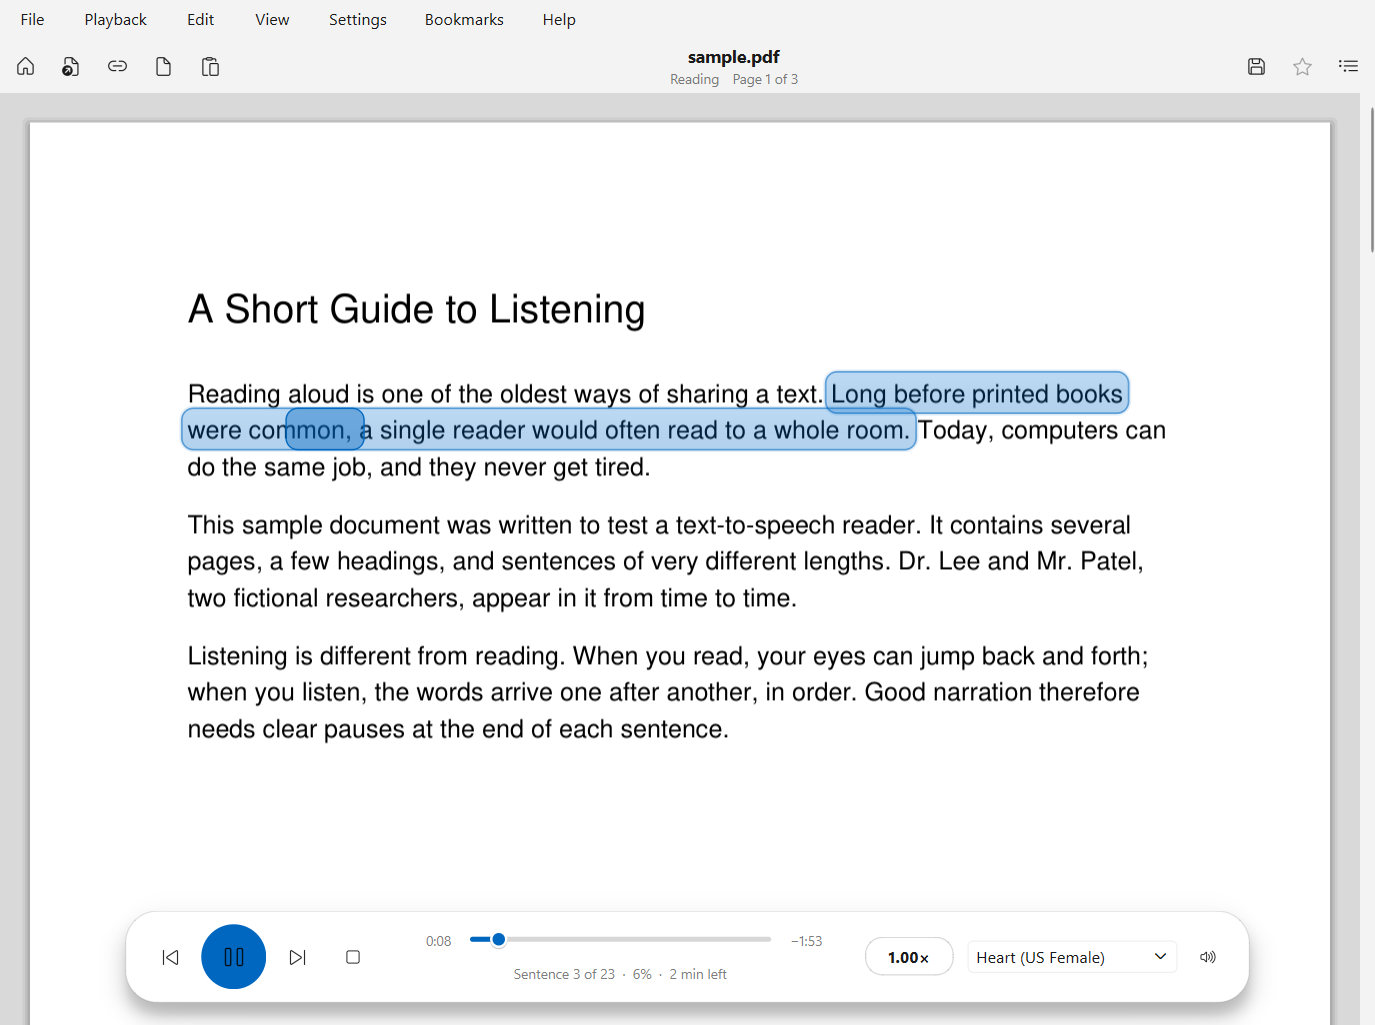
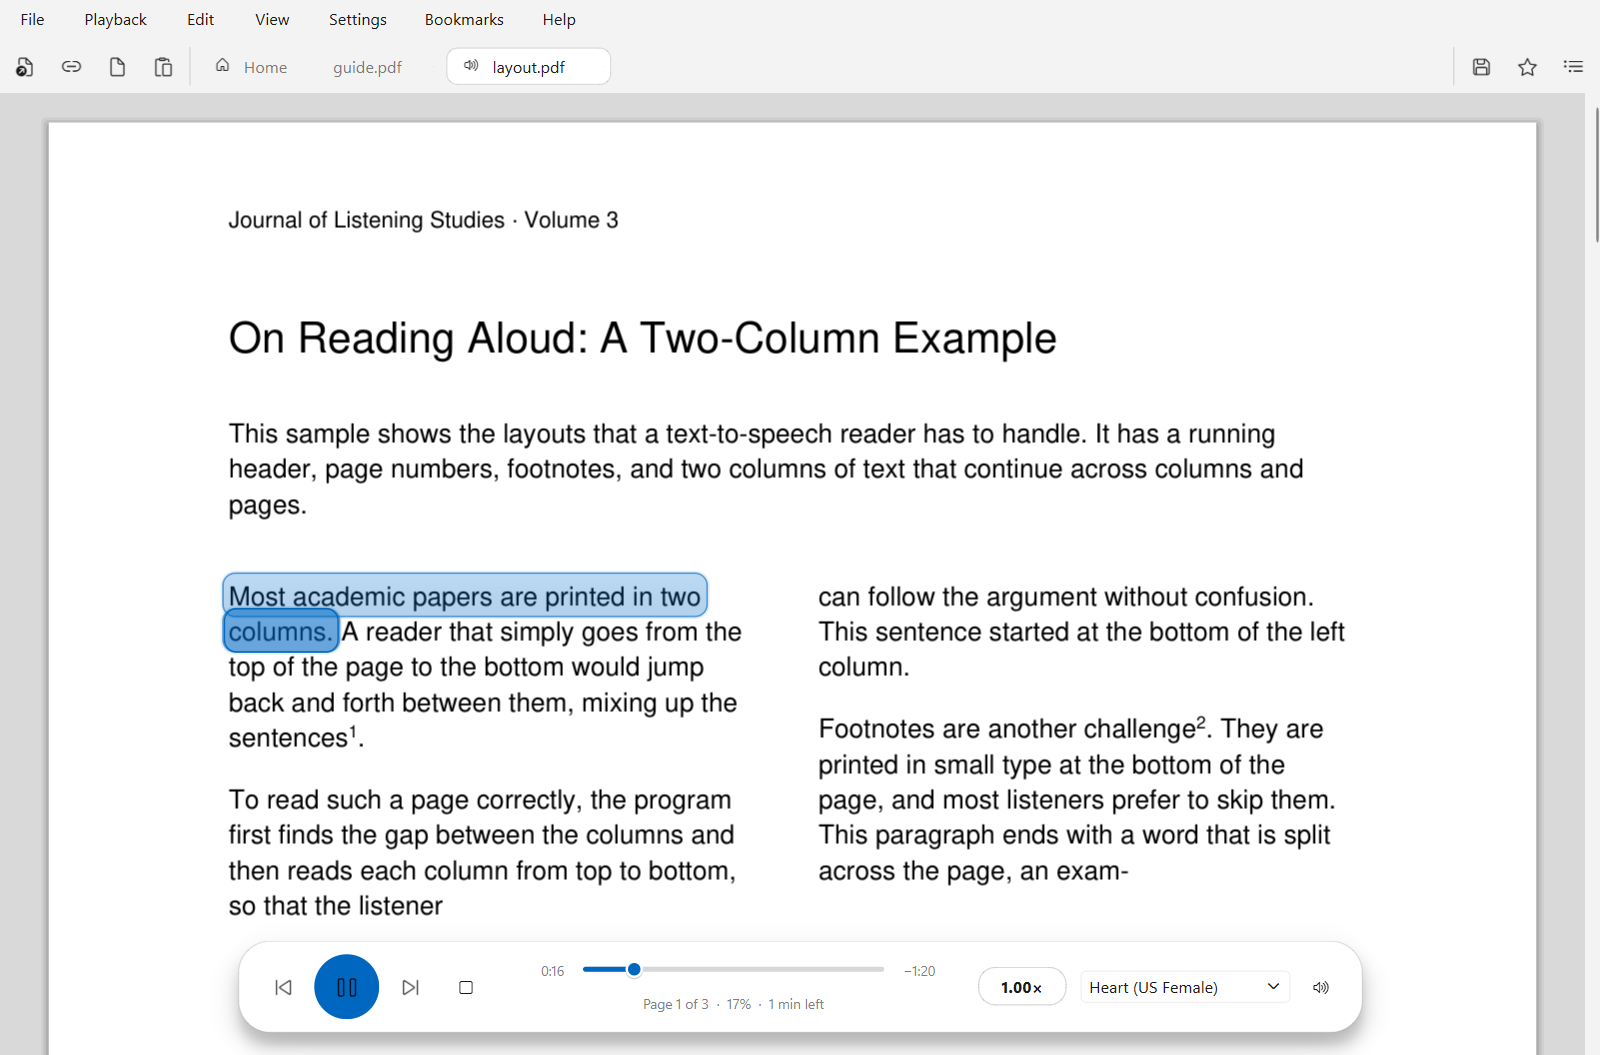
Release 0.10.0: tabs and a redesigned home page

diff --git a/packaging/make_artwork.py b/packaging/make_artwork.py
@@ -132,9 +132,7 @@ def draw_wizard(width: int, height: int) -> QImage:
     p.setFont(font)
     p.setPen(QColor("white"))
     text_top = height * 0.22 + icon_size + height * 0.05
-    p.drawText(
-        QRectF(0, text_top, width, width * 0.16), Qt.AlignmentFlag.AlignHCenter, APP_NAME
-    )
+    p.drawText(QRectF(0, text_top, width, width * 0.16), Qt.AlignmentFlag.AlignHCenter, APP_NAME)
     font.setPixelSize(int(width * 0.06))
     font.setWeight(QFont.Weight.Normal)
     p.setFont(font)

diff --git a/src/pdf_reader/__init__.py b/src/pdf_reader/__init__.py
@@ -1,3 +1,3 @@
 """PDF Reader: read documents aloud with local AI voices."""
 
-__version__ = "0.9.0"
+__version__ = "0.10.0"

diff --git a/CHANGELOG.md b/CHANGELOG.md
@@ -6,6 +6,46 @@ All notable changes to this project are documented here. The format follows
 
 ## [Unreleased]
 
+## [0.10.0] - 2026-11-05
+
+Tabs, a redesigned home page, and a smoother app all round.
+
+### Added
+
+- Tabs: every document opens in its own tab, next to a pinned Home tab. One tab is
+  the one being listened to (a speaker icon marks it); the player, media keys, and
+  bookmarks act on it. While reading aloud you can browse other tabs without
+  interrupting it ("♪ Title" in the player takes you back, also Ctrl+J). When
+  nothing is playing, the tab on screen is the one the player reads; pressing Play
+  or clicking a sentence on another tab switches listening to it.
+- Tab shortcuts: Ctrl+W closes a tab, Ctrl+Tab / Ctrl+Shift+Tab switch tabs, Ctrl+T
+  or Ctrl+H shows Home. A middle click closes a tab.
+- Files open in tabs come back the next time the app starts (opened when first
+  shown); pasted text and web pages stay private and aren't reopened.
+- Each tab remembers where it was scrolled.
+- Dropping several files opens a tab for each.
+- Opening a file from Explorer while the app is open adds a tab to the open window
+  instead of starting a second copy.
+
+### Changed
+
+- Redesigned home page: the date and a greeting, a composer to paste text or a link
+  and listen at once, three quick starts (open a document, open a link, read the
+  clipboard), and book-style covers that fill their frame (blank page margins are
+  trimmed; documents without a page picture get a typeset cover). Covers lift
+  gently under the pointer.
+- Sharper icons everywhere (drawn at each size instead of shrunk).
+- The player appears once there is something to read, and its information line is
+  shorter: page, percentage, and time left.
+- Switching tabs is faster: only the view on screen (page images or text) is laid
+  out.
+
+### Fixed
+
+- The home page showed no recent documents right after starting the app until you
+  left it and came back.
+- A document that finished loading after its window had closed could crash the app.
+
 ## [0.9.0] - 2026-11-03
 
 An installer: download one file, double-click, and start listening.

diff --git a/README.md b/README.md
@@ -9,9 +9,11 @@ It uses the [Kokoro](https://huggingface.co/hexgrad/Kokoro-82M) neural text-to-s
 model, which runs entirely on your own computer: no cloud, no account, no API keys, and
 your documents never leave your PC. Think of it as a private alternative to Speechify.
 
-> **Status:** early development (v0.9). See the [roadmap](ROADMAP.md) for what's next.
+> **Status:** early development (v0.10). See the [roadmap](ROADMAP.md) for what's next.
 
-![PDF Reader reading a PDF page, with the spoken word highlighted inside the current sentence](docs/screenshot.png)
+![PDF Reader reading a PDF page in a tab, with the spoken word highlighted inside the current sentence](docs/screenshot.png)
+
+![The home page: a composer to paste text or a link, quick starts, and recent documents as covers](docs/home.png)
 
 ## Features
 
@@ -36,6 +38,9 @@ your documents never leave your PC. Think of it as a private alternative to Spee
 - **Smart text cleanup.** Page numbers, running headers and footers, and footnotes are
   skipped; two-column pages are read column by column; and sentences that continue
   across a column or page break are read as one sentence.
+- **Tabs.** Open several documents at once, each in its own tab. Keep listening to one
+  while you browse the others; play or click a sentence in another tab to switch.
+  Your tabs come back the next time you start the app.
 - **A home for your reading.** Recent documents appear as covers with your progress,
   next to one-click "Open a PDF" and a box to paste or type any text.
 - **Natural, flowing speech.** Sentences join seamlessly at an even volume, with
@@ -81,7 +86,10 @@ your documents never leave your PC. Think of it as a private alternative to Spee
 | Space | Play / Pause |
 | Left arrow | Previous sentence |
 | Right arrow | Next sentence |
-| Ctrl+H | Home page |
+| Ctrl+H or Ctrl+T | Home page |
+| Ctrl+W | Close the tab |
+| Ctrl+Tab / Ctrl+Shift+Tab | Next / previous tab |
+| Ctrl+J | Show the tab being read aloud |
 | Ctrl+O | Open a document |
 | Ctrl+L | Open a web link |
 | Ctrl+Shift+S | Export audio (MP3) |

diff --git a/CLAUDE.md b/CLAUDE.md
@@ -124,6 +124,17 @@ ui  ->  core  ->  audio  ->  tts
   `write_defines.py` (installer constants from the code), `build.ps1`, and
   `make_artwork.py` (icon and wizard pictures). Data files used at run time must be
   listed in the spec's `datas`, or the installed app won't find them.
+- **Tabs (v0.10)**: `ui/tabs.py` (`DocumentTab`, `TabStrip`; the rules are in its
+  docstring). The session reads one document; tabs load others without touching
+  playback via `ReadingSession.prepare_document/prepare_url/prepare_text`
+  (`on_document_prepared(request, path, result)`), and `activate(document, position)`
+  makes one the listening document (`close_document()` when its tab closes).
+  `MainWindow`: `_document` is the listening document, `_listening` its tab,
+  `_shown` the one on screen; only the visible view is filled (`_text_view_document`,
+  `_page_view_document`). Files in tabs are saved in `Settings.open_tabs` and restored
+  lazily. `ui/single_instance.SingleInstance` (QLocalServer, user-only) hands a second
+  launch's file to the running window. `tests/conftest.py` makes message boxes return
+  at once, so no test can hang on a dialog.
 - **library/**: `LibraryStore` keeps per-document records (title, path, last opened,
   reading position, bookmarks) in `library.json`, thread-safe, written atomically by
   `flush()` (the session flushes on pause, stop, document switch, bookmark changes,
